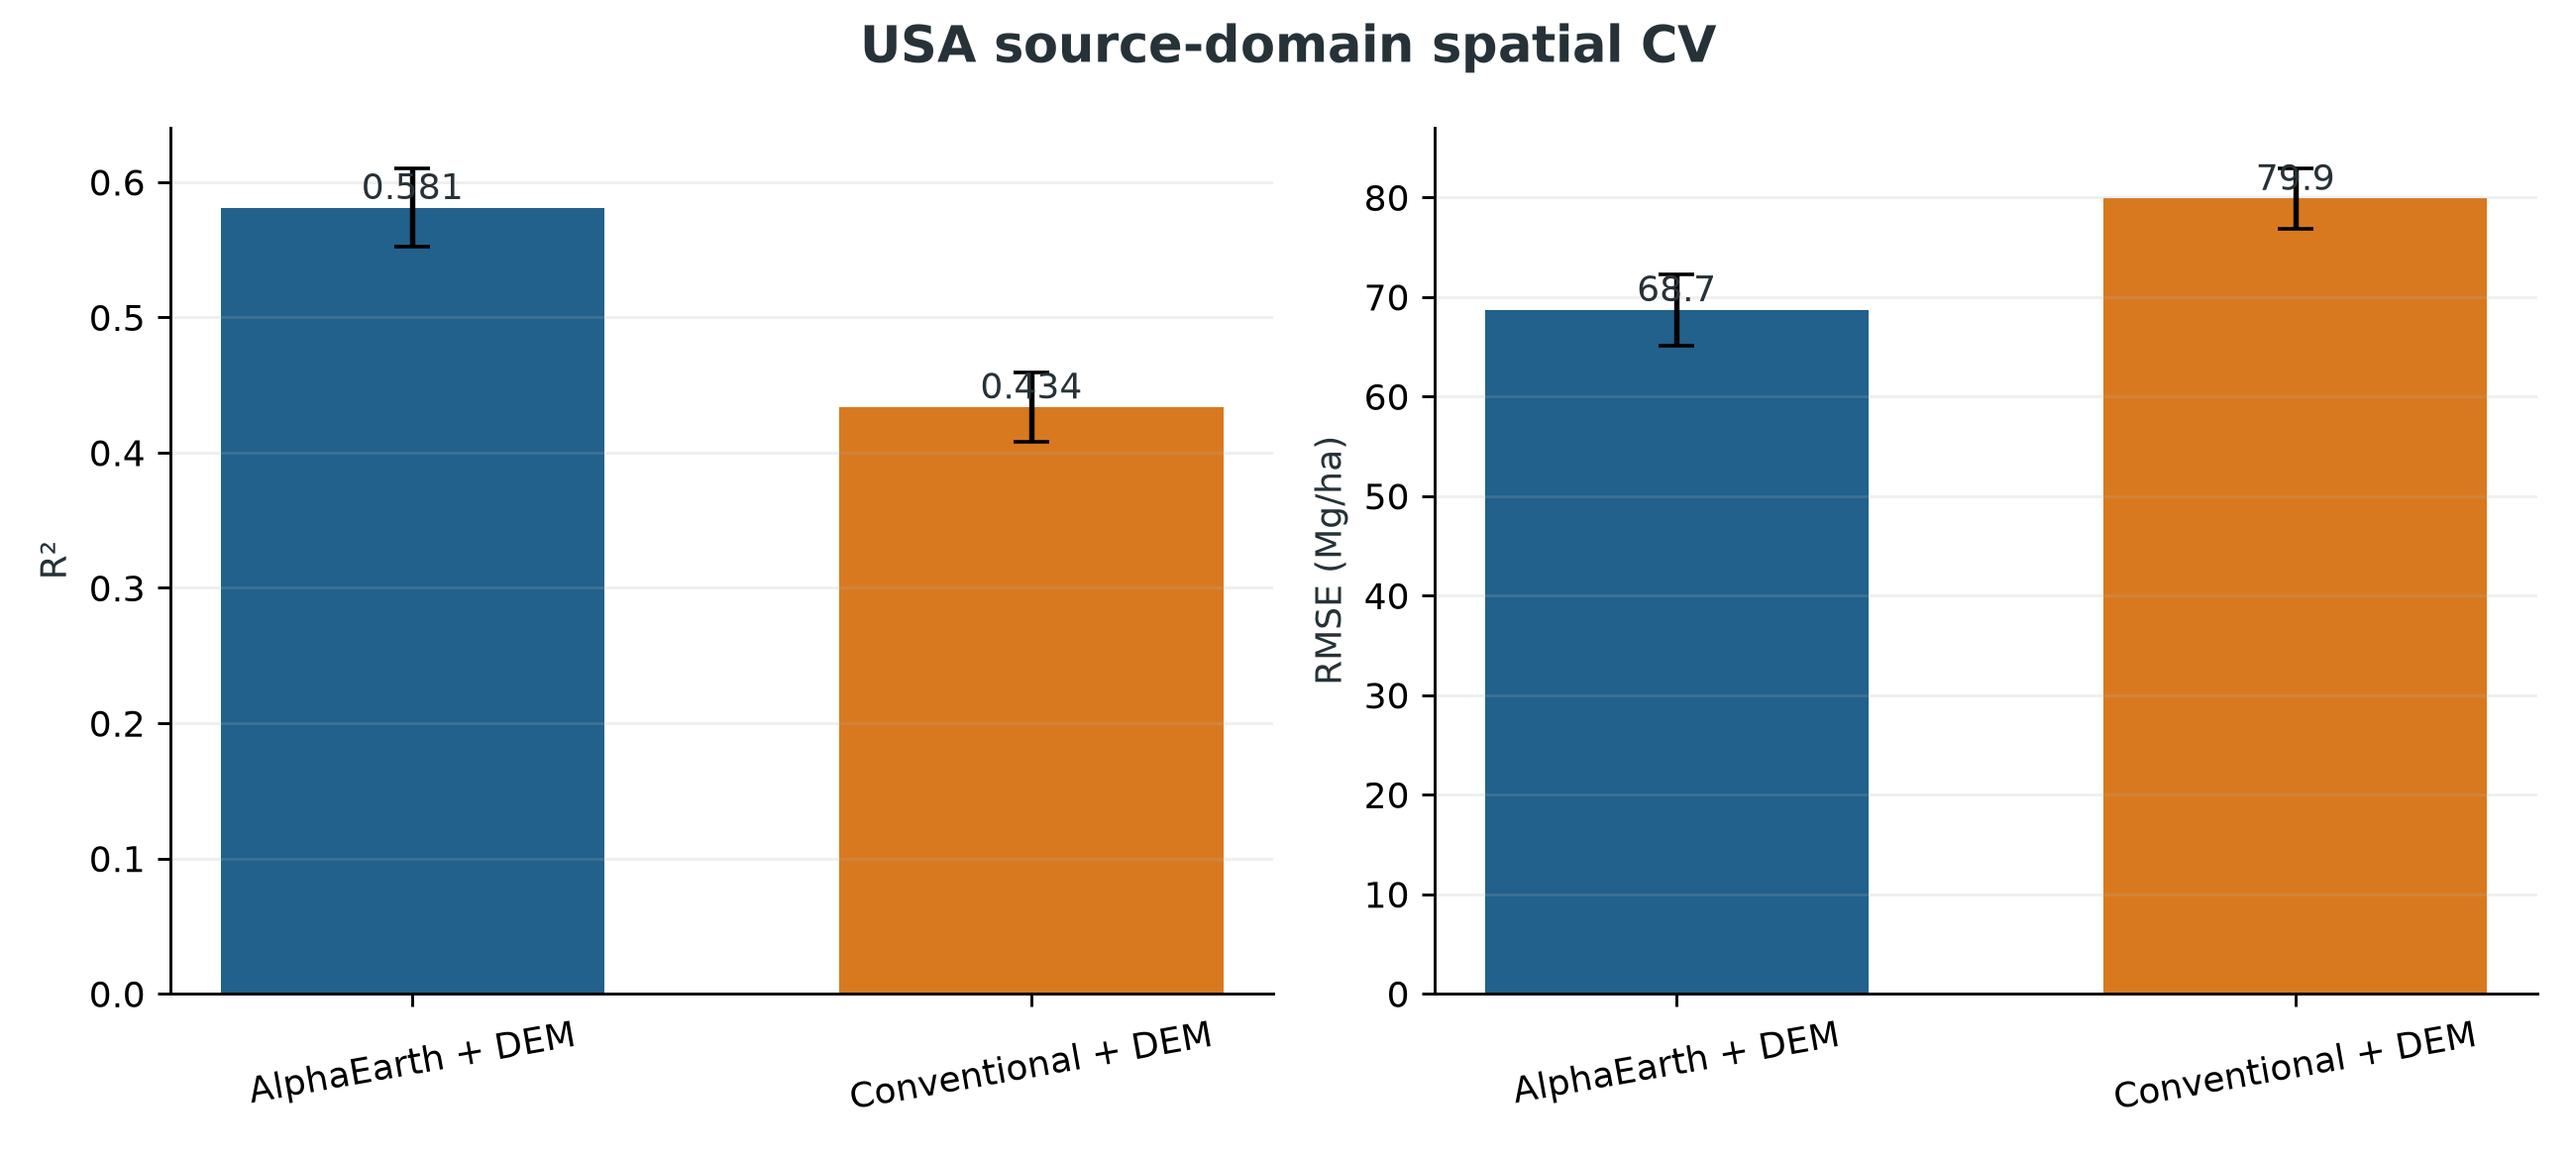
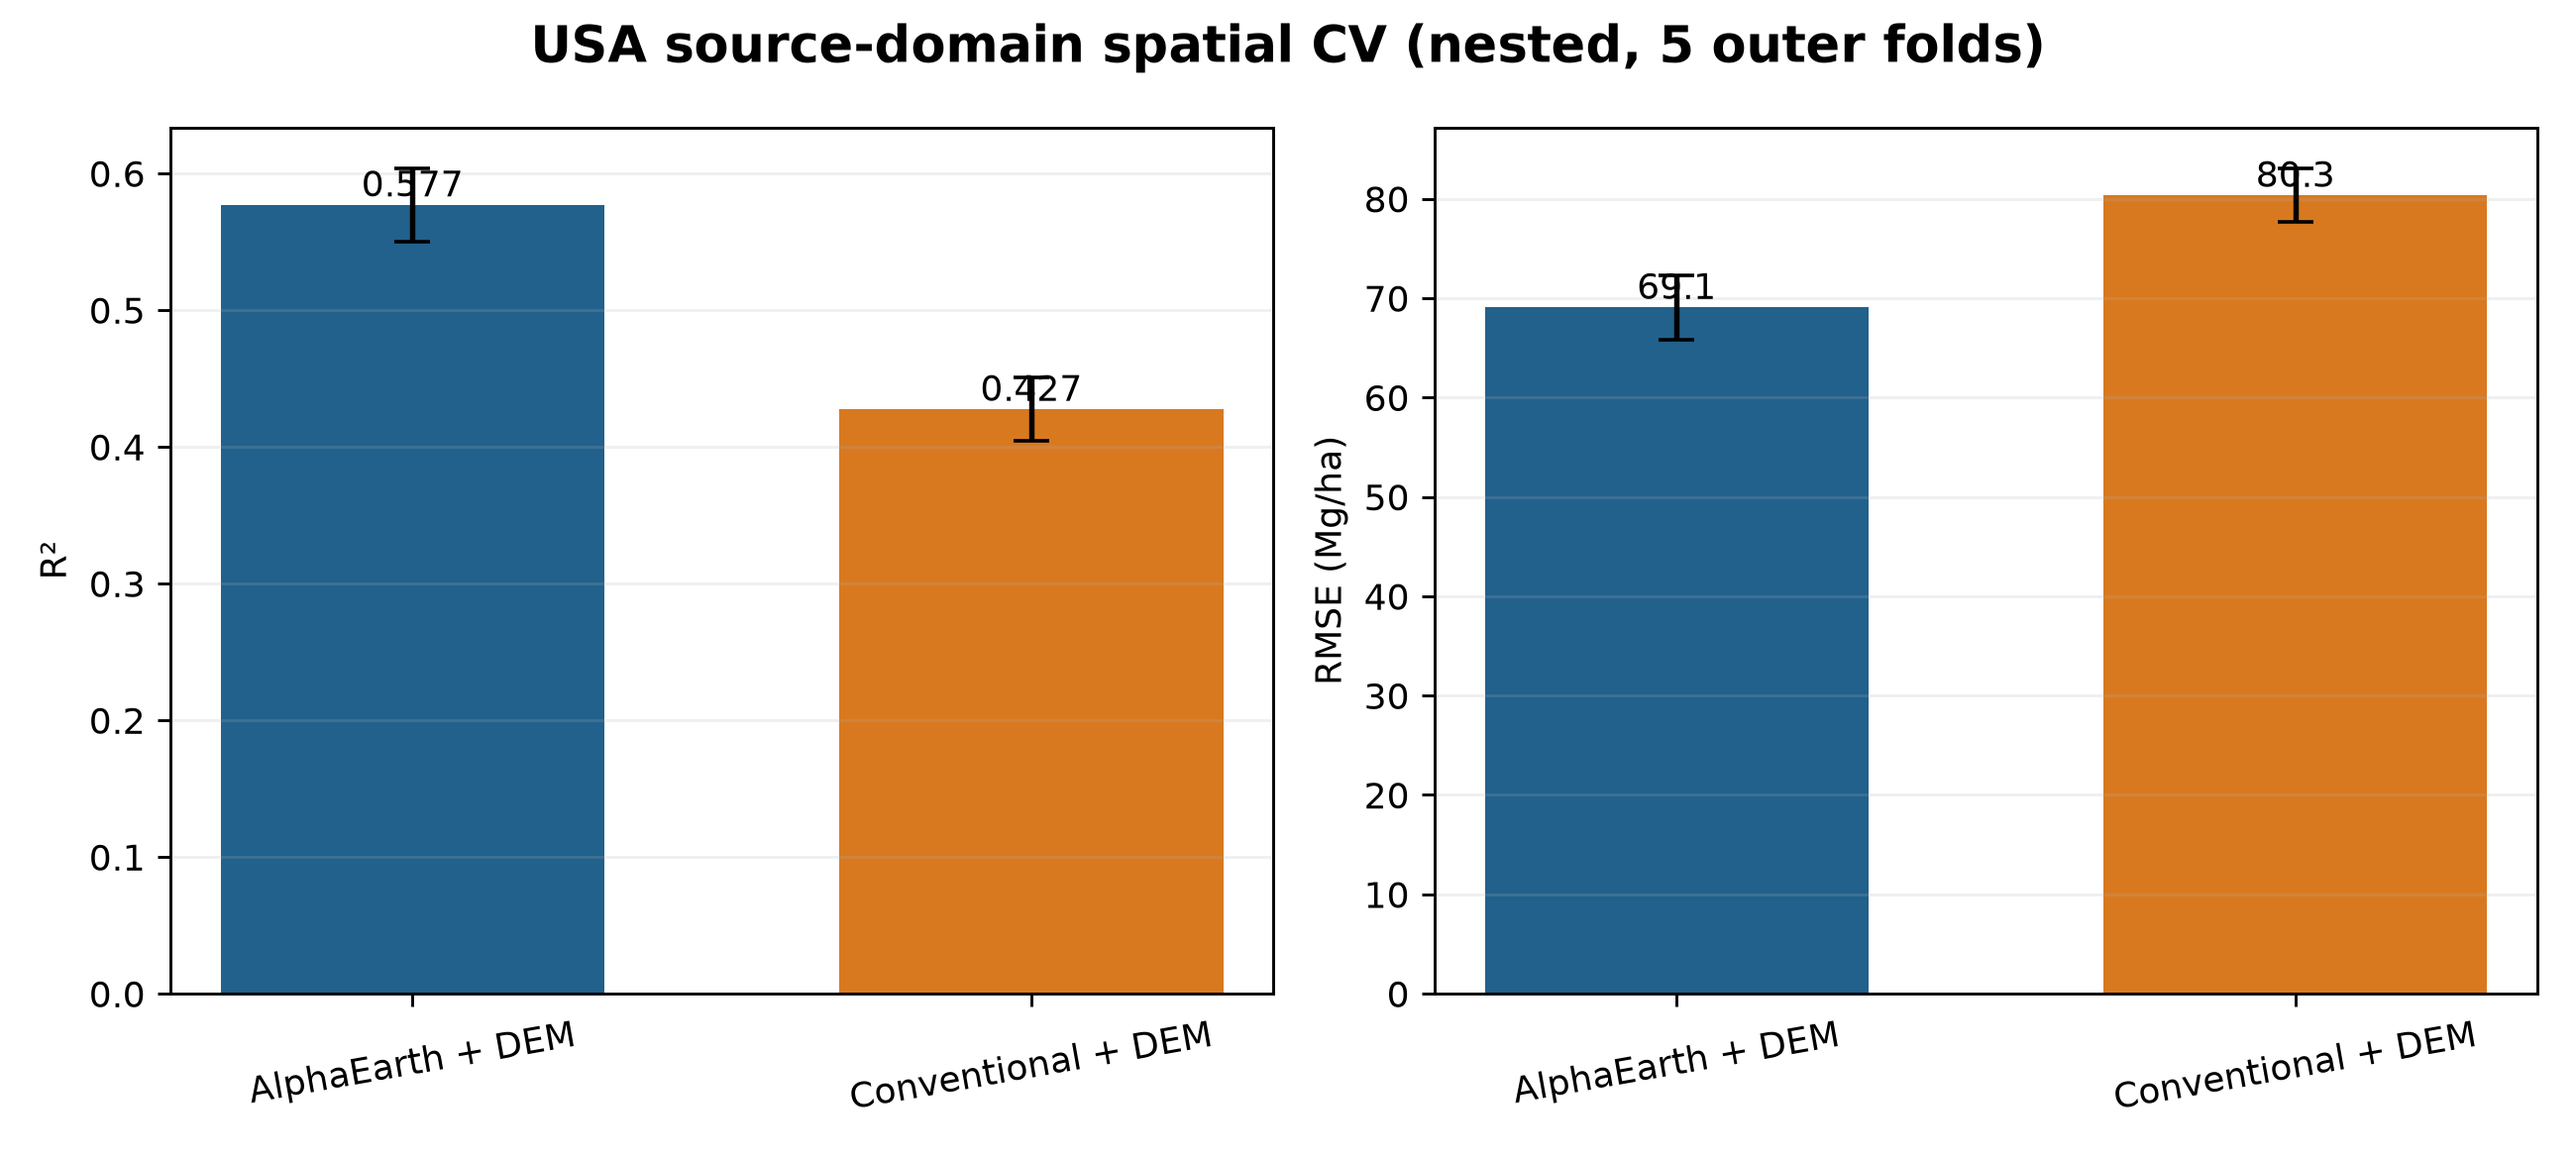
Propagate honest nested-CV source metrics to docs, figures, and zero-shot freeze

diff --git a/docs/technical_report.md b/docs/technical_report.md
@@ -44,20 +44,20 @@ A source-only development subset compared the central 10 m pixel with a 25 m com
 
 ## 7. Source-domain results
 
-The final comparison used identical source footprints and five 50 km block folds. Both selected models were XGBoost depth-6 configurations chosen under the same restricted source-only tuning budget.
+The final comparison used identical source footprints and five 50 km block folds. Model selection used an identical restricted source-only tuning budget for both representations; the winning configuration per representation was chosen by nested spatial cross-validation.
 
 | Representation | R² | RMSE (Mg/ha) | MAE (Mg/ha) | Bias (Mg/ha) |
 |---|---:|---:|---:|---:|
-| AlphaEarth + DEM | 0.5810 | 68.70 | 41.46 | +0.31 |
-| Conventional + DEM | 0.4336 | 79.88 | 52.70 | -0.01 |
+| AlphaEarth + DEM | 0.5768 | 69.05 | 41.79 | +0.60 |
+| Conventional + DEM | 0.4273 | 80.33 | 53.07 | +0.21 |
 
-AlphaEarth improved source R² by 0.147 and reduced RMSE by approximately 14% relative to conventional predictors.
+AlphaEarth improved source R² by 0.150 and reduced RMSE by approximately 14% relative to conventional predictors.
 
 ![Source representation comparison](../figures/source_representation_comparison.png)
 
 ## 8. Zero-shot transfer
 
-Target labels remained locked during Kaihua predictor construction and model prediction. DEM, AlphaEarth and conventional variables were extracted for the exact same 130,195 target footprints. The two frozen prediction files were hashed before AGBD and AGBD-SE were unlocked and joined by the pre-existing shot-number manifest.
+Target labels remained locked during Kaihua predictor construction and model prediction. DEM, AlphaEarth and conventional variables were extracted for the exact same 130,195 target footprints. The two frozen prediction files were hashed before AGBD and AGBD-SE were unlocked and joined by shot number.
 
 | Representation | R² | RMSE (Mg/ha) | MAE (Mg/ha) | Bias (Mg/ha) |
 |---|---:|---:|---:|---:|
@@ -80,13 +80,13 @@ This separability is descriptive, not a target-model selection rule. It also doe
 
 ## 10. Few-shot adaptation
 
-Kaihua footprints were assigned to fixed 5 km blocks in EPSG:32650. Five whole-block folds contained approximately 26,000 evaluation samples each. Label budgets were 25, 50, 100, 250, 500, 1,000 and 2,500, with seeds 42–44. Every fold × budget × seed used the identical target shot-number draw for both representations, without AGBD stratification or active learning.
+Kaihua footprints were first assigned to 117 fixed 5 km × 5 km grid cells in EPSG:32650, and entire cells were then assigned to five sample-balanced spatial folds (~26,000 evaluation footprints each) so that no cell crosses a train/test partition. Label budgets were 25, 50, 100, 250, 500, 1,000 and 2,500, with seeds 42–44. Every fold × budget × seed used the identical target shot-number draw for both representations, without AGBD stratification or active learning.
 
 Three adaptation methods were tested: an intercept-only bias correction, two-parameter affine calibration and a shared conservative local XGBoost configuration frozen before representation results. Bias-only calibration remained negative at every budget, demonstrating that failure was not a simple offset. Affine calibration became slightly positive with 50 labels but plateaued near R² 0.05, indicating both offset and scale mismatch.
 
 Local AlphaEarth models first achieved positive mean spatial-holdout R² with 250 labels; conventional models required 500. At 2,500 labels, AlphaEarth reached R² 0.1306 ± 0.0168 and RMSE 81.90 Mg/ha, compared with R² 0.0594 ± 0.0105 and RMSE 85.19 Mg/ha for conventional features. No method reached mean R² 0.2.
 
-![Kaihua label efficiency](../figures/kaihua_label_efficiency_final.png)
+![Kaihua label efficiency](../figures/kaihua_label_efficiency.png)
 
 ![Calibration and local adaptation](../figures/calibration_vs_local_adaptation.png)
 

diff --git a/README.md b/README.md
@@ -33,8 +33,8 @@ should not be compared as if they were the same experiment.
 
 | Evaluation setting | AlphaEarth + DEM | Conventional + DEM |
 |---|---:|---:|
-| USA source 50 km block-CV R² | 0.581 | 0.434 |
-| USA source 50 km block-CV RMSE (Mg/ha) | 68.70 | 79.88 |
+| USA source spatial-CV R² | 0.577 | 0.427 |
+| USA source spatial-CV RMSE (Mg/ha) | 69.05 | 80.33 |
 | Kaihua zero-shot R² (labels locked) | −0.556 | −1.117 |
 | Labels to first positive local-model R² | 250 | 500 |
 | Kaihua local-model R² at 2,500 labels | 0.131 ± 0.017 | 0.059 ± 0.011 |
@@ -46,7 +46,7 @@ required fewer target labels to recover positive spatial-holdout performance, bu
 
 ![Source representation comparison](figures/source_representation_comparison.png)
 ![Zero-shot transfer](figures/zero_shot_transfer.png)
-![Kaihua label efficiency](figures/kaihua_label_efficiency_final.png)
+![Kaihua label efficiency](figures/kaihua_label_efficiency.png)
 
 ## Method summary
 
@@ -62,9 +62,10 @@ required fewer target labels to recover positive spatial-holdout performance, bu
 - **Sampling & validation.** Source: 50 km spatial blocks, block × year strata,
   deterministic seed 42, cap 200 per stratum, no AGBD balancing, no
   target-informed sampling → 124,303 common samples after DEM masking. Target:
-  five 5 km spatial folds, shared label draws, seeds 42–44.
-- **Models.** Identical restricted source-only XGBoost depth-6 tuning budget for
-  both representations; target model selection forbidden.
+  117 fixed 5 km × 5 km grid cells in EPSG:32650 assigned whole to five sample-balanced spatial folds (~26,000 footprints each); shared label draws, seeds 42–44.
+- **Models.** Identical restricted source-only tuning budget for both
+  representations, with the configuration chosen by nested spatial cross-validation;
+  target model selection forbidden.
 - **Evaluation metrics.** R², RMSE, MAE, Bias (Mg/ha); domain diagnostics (PCA,
   logistic classifier AUROC, nearest-embedding distance vs error).
 
@@ -90,7 +91,6 @@ gedi-alphaearth-biomass/
 │   ├── 03_modeling/            # train, zero-shot, few-shot
 │   ├── 04_diagnostics/         # domain shift + figures
 │   ├── utilities/              # leakage guards
-│   ├── archive/                # internal scaffolding (not the main workflow)
 │   └── README.md               # script → stage map
 ├── figures/                   # publication-style result figures
 ├── outputs/

diff --git a/docs/experiments.md b/docs/experiments.md
@@ -12,16 +12,16 @@ different evaluation settings are not directly compared against one another.
 
 ## 1. Source-domain spatial cross-validation
 
-Identical source footprints and five 50 km block folds; both selected models were
-XGBoost depth-6 configurations chosen under the same restricted source-only
-tuning budget.
+Identical source footprints and five 50 km block folds; model selection used an
+identical restricted source-only tuning budget for both representations, with the
+configuration chosen by nested spatial cross-validation.
 
 | Representation | R² | RMSE (Mg/ha) | MAE (Mg/ha) | Bias (Mg/ha) |
 |---|---:|---:|---:|---:|
-| AlphaEarth + DEM | 0.5810 | 68.70 | 41.46 | +0.31 |
-| Conventional + DEM | 0.4336 | 79.88 | 52.70 | −0.01 |
+| AlphaEarth + DEM | 0.5768 | 69.05 | 41.79 | +0.60 |
+| Conventional + DEM | 0.4273 | 80.33 | 53.07 | +0.21 |
 
-AlphaEarth improved source R² by 0.147 and reduced RMSE by ~14%.
+AlphaEarth improved source R² by 0.150 and reduced RMSE by ~14%.
 
 ![Source representation comparison](../figures/source_representation_comparison.png)
 
@@ -60,8 +60,10 @@ absolute zero-shot error (Spearman ρ = 0.022).
 
 ## 4. Few-shot adaptation (label efficiency)
 
-Kaihua footprints were assigned to fixed 5 km blocks in EPSG:32650. Five
-whole-block folds contained ~26,000 evaluation samples each. Label budgets were
+Kaihua footprints were first assigned to 117 fixed 5 km × 5 km grid cells in
+EPSG:32650, and entire cells were then assigned to five sample-balanced spatial
+folds (~26,000 evaluation footprints each) so that no cell crosses a train/test
+partition. Label budgets were
 25, 50, 100, 250, 500, 1,000 and 2,500, with seeds 42–44. Every fold × budget ×
 seed used the identical target shot-number draw for both representations, without
 AGBD stratification or active learning.
@@ -77,7 +79,7 @@ labels**; conventional models required **500**. At 2,500 labels, AlphaEarth
 reached **R² 0.1306 ± 0.0168** and RMSE 81.90 Mg/ha, versus R² 0.0594 ± 0.0105
 and RMSE 85.19 Mg/ha for conventional features. **No method reached mean R² 0.2.**
 
-![Kaihua label efficiency](../figures/kaihua_label_efficiency_final.png)
+![Kaihua label efficiency](../figures/kaihua_label_efficiency.png)
 ![Calibration and local adaptation](../figures/calibration_vs_local_adaptation.png)
 
 ## Negative result (reported, not hidden)
